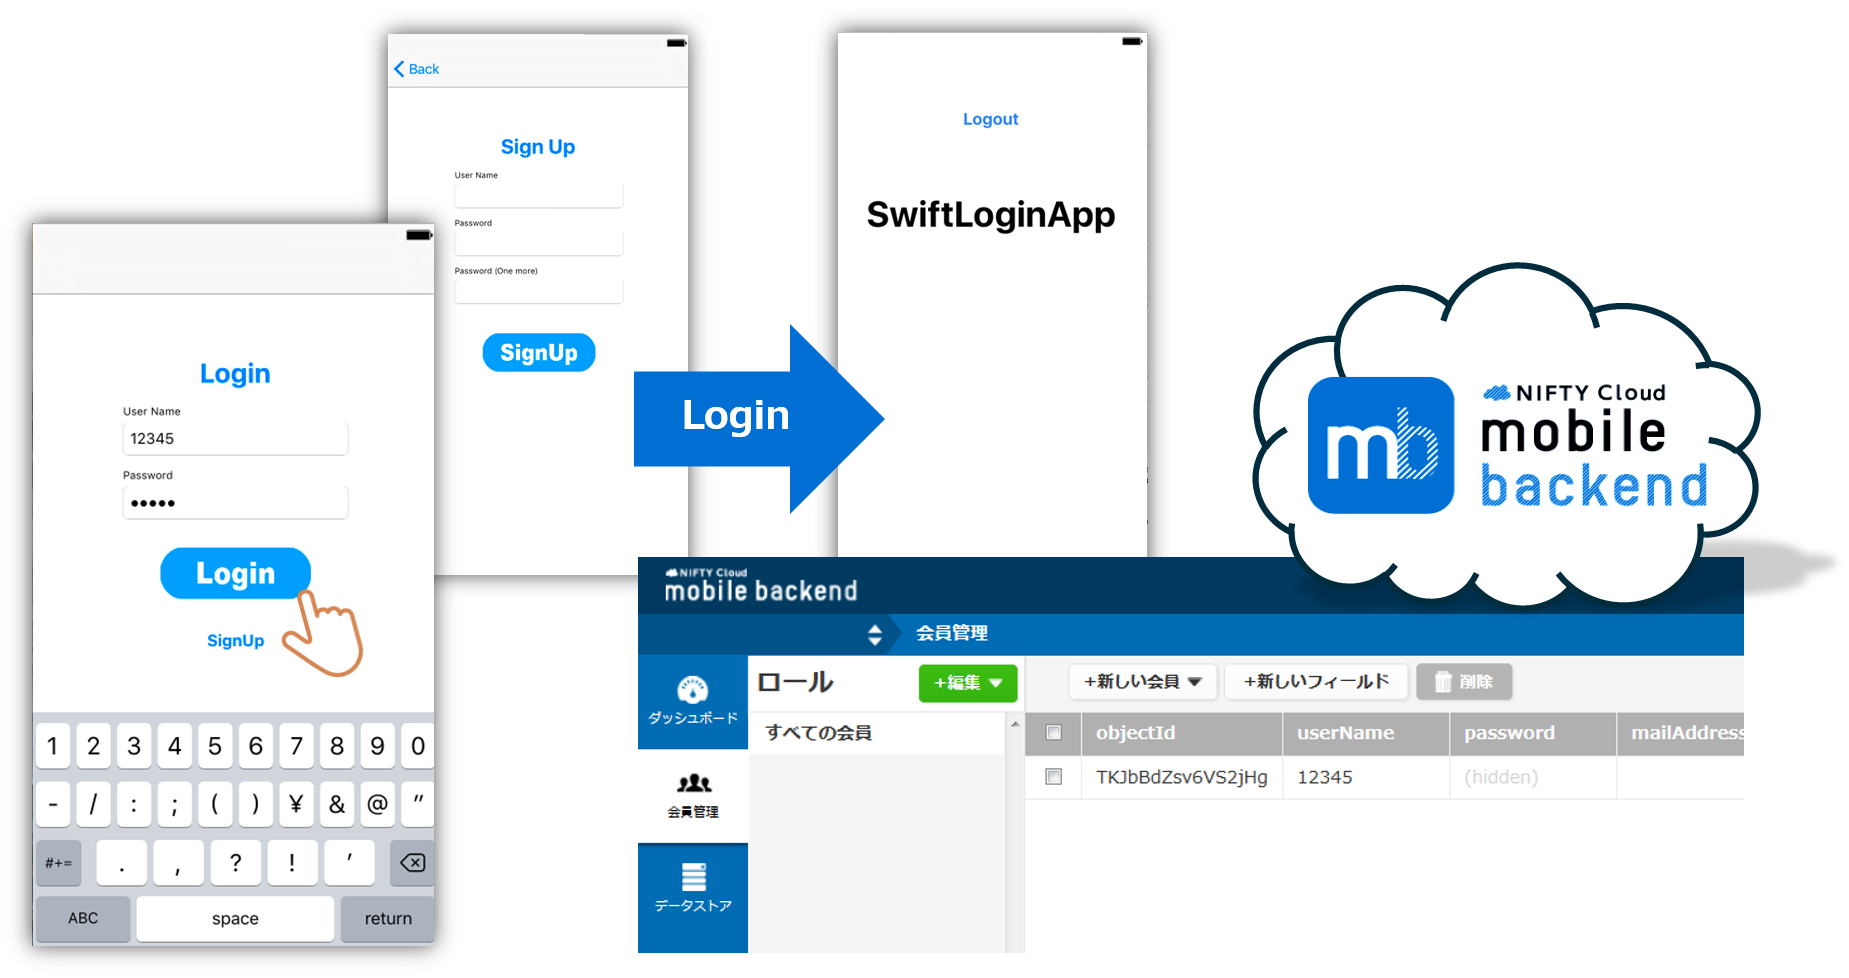
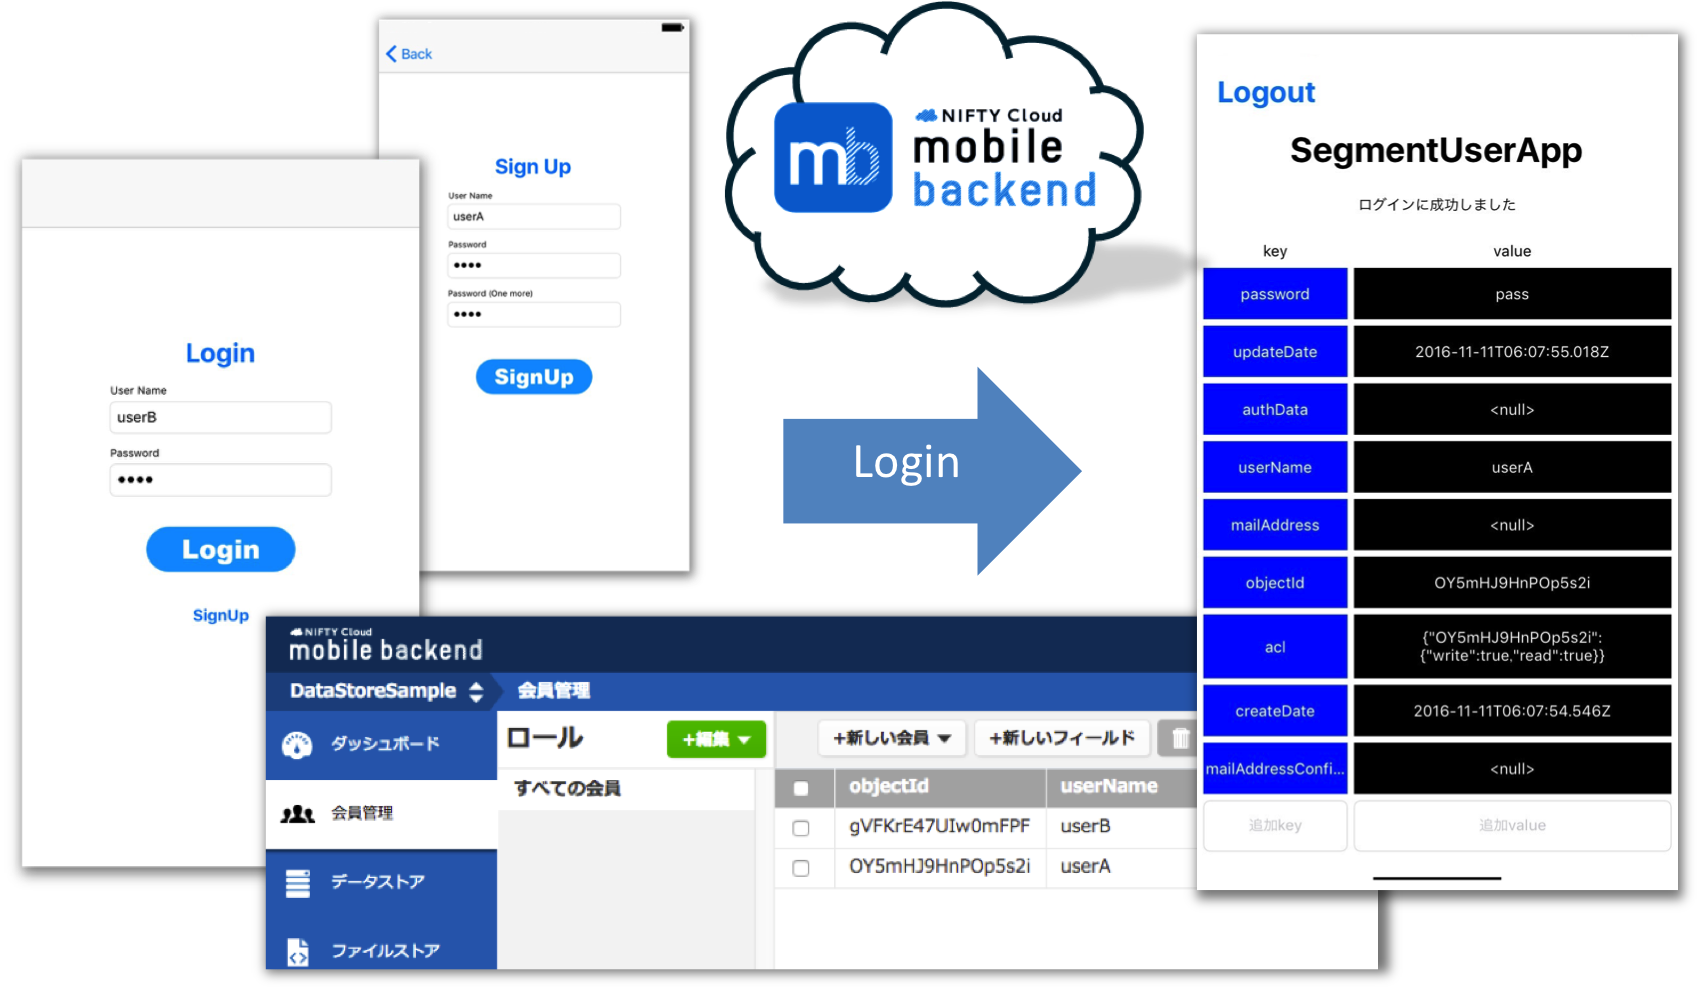
fix readme

diff --git a/SwiftSegmentUserApp/SegmentUserViewController.swift b/SwiftSegmentUserApp/SegmentUserViewController.swift
@@ -136,11 +136,13 @@ class SegmentUserViewController: UIViewController, UITableViewDelegate, UITableV
      最新のuser情報を取得します。
      */
     func getUser() {
+        // NCMBUserのインスタンスを作成
         let user = NCMBUser.current()
         
+        // ユーザー情報をデータストアから取得
         user?.fetchInBackground({ (error) in
             if let unwrapError = error as? NSError {
-                // 新規登録失敗時の処理
+                // ユーザー情報の取得が失敗した場合の処理
                 self.statusLabel.text = "取得に失敗しました:\(unwrapError.code)"
             } else {
                 // ユーザー情報の取得が成功した場合の処理
@@ -159,6 +161,13 @@ class SegmentUserViewController: UIViewController, UITableViewDelegate, UITableV
      送信ボタンをタップした時に呼ばれます
      */
     func postUser(sender:UIButton) {
+        
+        // 追加フィールドにvalueだけセットされてkeyには何もセットされていない場合
+        if self.addFieldManager.valueStr != "" && self.addFieldManager.keyStr == "" {
+            self.statusLabel.text = "key,valueをセットで入力してください"
+            return
+        }
+        
         // 追加用セルの値をuserにセットする
         if self.addFieldManager.keyStr != "" {
             // keyに値が設定されていた場合
@@ -174,6 +183,8 @@ class SegmentUserViewController: UIViewController, UITableViewDelegate, UITableV
         self.user.saveInBackground { (error) in
             if let unwrapError = error as? NSError {
                 self.statusLabel.text = "保存に失敗しました:\(unwrapError.code)"
+                // 保存に失敗した場合は、userから削除する
+                self.user.remove(forKey: self.addFieldManager.keyStr)
             } else {
                 self.statusLabel.text = "保存に成功しました"
                 // tableViewの内容を更新

diff --git a/README.md b/README.md
@@ -1,50 +1,62 @@
-# 【iOS Swift】アプリにログイン機能をつけよう！
-![画像1](/readme-img/001.png)
+# 【iOS10 Swift】ユーザー情報を更新してみよう！
+*2016/10/26作成*
+
+![画像01](/readme-img/001.png)
 
 ## 概要
-* [ニフティクラウドmobile backend](http://mb.cloud.nifty.com/)の『会員管理機能』を利用してSwiftアプリにログイン機能を実装したサンプルプロジェクトです
+* [ニフティクラウドmobile backend](http://mb.cloud.nifty.com/)の『会員管理機能』を利用してObjective-Cアプリにログイン機能を実装し、ユーザー情報を更新するサンプルプロジェクトです
 * 簡単な操作ですぐに [ニフティクラウドmobile backend](http://mb.cloud.nifty.com/)の機能を体験いただけます★☆
+* このサンプルはiOS10に対応しています
+ * iOS8以上でご利用いただけます
 
 ## ニフティクラウドmobile backendって何？？
 スマートフォンアプリのバックエンド機能（プッシュ通知・データストア・会員管理・ファイルストア・SNS連携・位置情報検索・スクリプト）が**開発不要**、しかも基本**無料**(注1)で使えるクラウドサービス！
 
 注1：詳しくは[こちら](http://mb.cloud.nifty.com/price.htm)をご覧ください
 
-![画像2](/readme-img/002.png)
+![画像02](/readme-img/002.png)
 
 ## 動作環境
-* Mac OS X 10.10(Yosemite)
-* Xcode ver. 7.2.1
-* Simulator ver. 9.2
+* Mac OS X 10.11.6(El Capitan)
+* iPhone5 iOS 9.3.5
+* iPhone6s iOS 10.0.1
+* Simulator iOS 10.0
+ * iPhone7
 
-※上記内容で動作確認をしています。
+※上記内容で動作確認をしています
 
-
-## 手順
-### 1. [ニフティクラウドmobile backend](http://mb.cloud.nifty.com/)の会員登録とログイン→アプリ作成
+## 作業の手順
+### 1. [ニフティクラウドmobile backend](http://mb.cloud.nifty.com/)の会員登録とログイン
 
 * 上記リンクから会員登録（無料）をします。登録ができたらログインをすると下図のように「アプリの新規作成」画面が出るのでアプリを作成します
 
-![画像3](/readme-img/003.png)
+![画像03](/readme-img/003.png)
 
 * アプリ作成されると下図のような画面になります
 * この２種類のAPIキー（アプリケーションキーとクライアントキー）はXcodeで作成するiOSアプリに[ニフティクラウドmobile backend](http://mb.cloud.nifty.com/)を紐付けるために使用します
 
-![画像4](/readme-img/004.png)
+![画像04](/readme-img/004.png)
 
 * 動作確認後に会員情報が保存される場所も確認しておきましょう
 
-![画像5](/readme-img/005.png)
+![画像05](/readme-img/005.png)
 
-### 2. [GitHub](https://github.com/natsumo/SwiftLoginApp.git)からサンプルプロジェクトのダウンロード
+### 2. [GitHub](https://github.com/NIFTYCloud-mbaas/SwiftSegmentUserApp_iOS10)からサンプルプロジェクトのダウンロード
 
-* この画面([GitHub](https://github.com/natsumo/SwiftLoginApp.git))の![画像10](/readme-img/010.png)ボタンをクリックし、さらに![画像11](/readme-img/011.PNG)ボタンをクリックしてサンプルプロジェクトをMacにダウンロードします
+* 下記リンクをクリックしてプロジェクトをダウンロードをMacにダウンロードします
+
+ * __[SwiftSegmentUserApp](https://github.com/NIFTYCloud-mbaas/SwiftSegmentUserApp_iOS10/archive/master.zip)__
 
 ### 3. Xcodeでアプリを起動
 
-* ダウンロードしたフォルダを開き、![画像09](/readme-img/009.png)をダブルクリックしてXcode開きます　![画像08](/readme-img/008.png)
+* ダウンロードしたフォルダを開き、「__SwiftSegmentUserApp.xcworkspace__」をダブルクリックしてXcode開きます(白い方です)
 
-![画像6](/readme-img/006.png)
+![画像09](/readme-img/009.png)
+![画像06](/readme-img/006.png)
+
+* 「SwiftSegmentUserApp.xcodeproj」（青い方）ではないので注意してください！
+
+![画像08](/readme-img/008.png)
 
 ### 4. APIキーの設定
 
@@ -58,87 +70,102 @@
 * 書き換え終わったら`command + s`キーで保存をします
 
 ### 5. 動作確認
-* Xcode画面で左上の実行ボタン（さんかくの再生マーク）をクリックします
+* Xcode画面の左上、適当なSimulatorを選択します
+ * iPhone7の場合は以下のようになります
+* 実行ボタン（さんかくの再生マーク）をクリックします
 
-![画像12](/readme-img/012.png)
-
-* __ビルド時にエラーが発生した場合の対処方法__
- * Xcodeのバージョンが古い場合`import NCMB`にエラーが発生し、上手くSDKが読み込めないことがあります
- * その場合は[【Swift】SDKの読み込みにuse framework!が使えない場合の対処方法](http://goo.gl/Z1D0K3)をご覧いただき、別の読み込み方法をお試しください
-
-* シミュレーターが起動したら、Login画面が表示されます
+* アプリが起動したら、Login画面が表示されます
 * 初回は__`SignUp`__ ボタンをクリックして、会員登録を行います
+
+![画像13](/readme-img/013.png)
+
+* `User Name`と`Password`を２つ入力して![画像12](/readme-img/012.png)ボタンをタップします
+* 会員登録が成功するとログインされ、下記ユーザー情報の一覧が表示されます
+* SignUpに成功するとmBaaS上に会員情報が作成されます！
 
 ![画像14](/readme-img/014.png)
 
-* `User Name`と`Password`を２つ入力して![画像13](/readme-img/013.png)ボタンをタップします
-* 会員登録が成功するとログインされ、下記画面が表示されます
- * このときmBaaS上に会員情報が作成されます！
- * ログインに失敗した場合は画面にエラーコードが表示されます
- * 万が一エラーが発生した場合は、[こちら](http://mb.cloud.nifty.com/doc/current/rest/common/error.html)よりエラー内容を確認いただけます
+* ログインに失敗した場合は画面にエラーコードが表示されます
+* エラーが発生した場合は、[こちら](http://mb.cloud.nifty.com/doc/current/rest/common/error.html)よりエラー内容を確認いただけます
+
+#### 新しいフィールドの追加
+* 新しいフィールドの追加をしてみましょう。"favorite"というフィールドを作り、中身には"music"と入れてみました。こうすることで、ユーザー情報に新しい属性を付与することができるようになります！
+* 編集が完了したら更新ボタンをタップして下さい
 
 ![画像15](/readme-img/015.png)
 
-* __`Logout`__ ボタンをタップするとログアウトし、元の画面に戻ります
-* 登録された会員情報を使ってLogin画面からログインが可能です（操作は同様です）
+* 更新後、tableViewが自動でリロードされ、追加・更新が行われていることがわかります。追加したフィールドは後から編集することが可能です
 
------
+![画像16](/readme-img/016.png)
 
-* 保存に成功したら、[ニフティクラウドmobile backend](http://mb.cloud.nifty.com/)のダッシュボードから「会員管理」を確認してみましょう！
+* ダッシュボードから、更新ができていることを確認してみましょう！
 
-![画像1](/readme-img/001.png)
+![画像17](/readme-img/017.png)
 
 ## 解説
-サンプルプロジェクトに実装済みの内容のご紹介
+* 下記３点について解説します
+ * 会員登録
+ * ログイン
+ * 会員情報の取得
 
-#### SDKのインポートと初期設定
-* ニフティクラウドmobile backend の[ドキュメント（クイックスタート）](http://mb.cloud.nifty.com/doc/current/introduction/quickstart_ios.html)をSwift版に書き換えたドキュメントをご用意していますので、ご活用ください
- * [SwiftでmBaaSを始めよう！(＜CocoaPods＞でuse_framewoks!を有効にした方法)](http://qiita.com/natsumo/items/57d3a4d9be16b0490965)
- * [＜CocoaPods＞SwiftでmBaaSを始めよう！](http://qiita.com/natsumo/items/b2d18d87d57300c8d81c)
-
-#### ロジック
- * `Main.storyboard`でデザインを作成し、`LoginViewController.swift`,`SignUpViewController.swift`,`LogoutViewController.swift`にロジックを書いています
- * ログイン、会員登録、ログアウト部分の処理は以下のように記述されます　※ただし、左記処理以外のコードは除いています
-
-`LoginViewController.swift`
-
-```swift
-// ログイン
-NCMBUser.logInWithUsernameInBackground(self.userNameTextField.text, password: self.passwordTextField.text, block:{(user: NCMBUser?, error: NSError!) in
-    if error != nil {
-        // ログイン失敗時の処理
-        
-    }else{
-        // ログイン成功時の処理
-        
-    }
-})
-```
-
+### 会員登録
 `SignUpViewController.swift`
 
 ```swift
-//会員登録
-user.signUpInBackgroundWithBlock{(error: NSError!) in
-    if error != nil {
+// 会員登録
+//NCMBUserのインスタンスを作成
+let user = NCMBUser()
+//ユーザー名を設定
+user.userName = self.userNameTextField.text
+//パスワードを設定
+user.password = self.passwordTextField.text
+
+//会員の登録を行う
+user.signUpInBackground{(error) in
+    if let unwrapError = error as? NSError {
         // 新規登録失敗時の処理
-        
-    }else{
+
+    } else {
         // 新規登録成功時の処理
-        
+
     }
 }
 ```
 
-`LogoutViewController.swift`
+### ログイン
 
 ```swift
-// ログアウト
-NCMBUser.logOut()
+// ログイン
+NCMBUser.logInWithUsername(inBackground: self.userNameTextField.text, password: self.passwordTextField.text, block:{(user, error) in
+    if let unwrapError = error as? NSError {
+        // 新規登録失敗時の処理
+
+    } else {
+        // 新規登録成功時の処理
+
+    }
+})
+```
+
+### 会員情報の取得
+`SegmentUserViewController.swift`
+
+```swift
+// NCMBUserのインスタンスを作成
+let user = NCMBUser.current()
+
+// ユーザー情報をデータストアから取得
+user?.fetchInBackground({ (error) in
+    if let unwrapError = error as? NSError {
+        // ユーザー情報の取得が失敗した場合の処理
+
+    } else {
+        // ユーザー情報の取得が成功した場合の処理
+
+    }
+})
 ```
 
 ## 参考
-* ニフティクラウドmobile backend の[ドキュメント（会員管理）](http://mb.cloud.nifty.com/doc/current/user/basic_usage_ios.html)をSwift版に書き換えたドキュメントをご用意していますので、ご活用ください
- * [Swiftでログイン機能をつけてみよう！](http://qiita.com/natsumo/items/25c97182fab4db5629b1)
 * 同じ内容の【Objective-C】版もご用意しています
- * https://github.com/natsumo/ObjcLoginApp
+ * [ObjcSegmentUserApp_iOS10](https://github.com/NIFTYCloud-mbaas/ObjcSegmentUserApp_iOS10)
